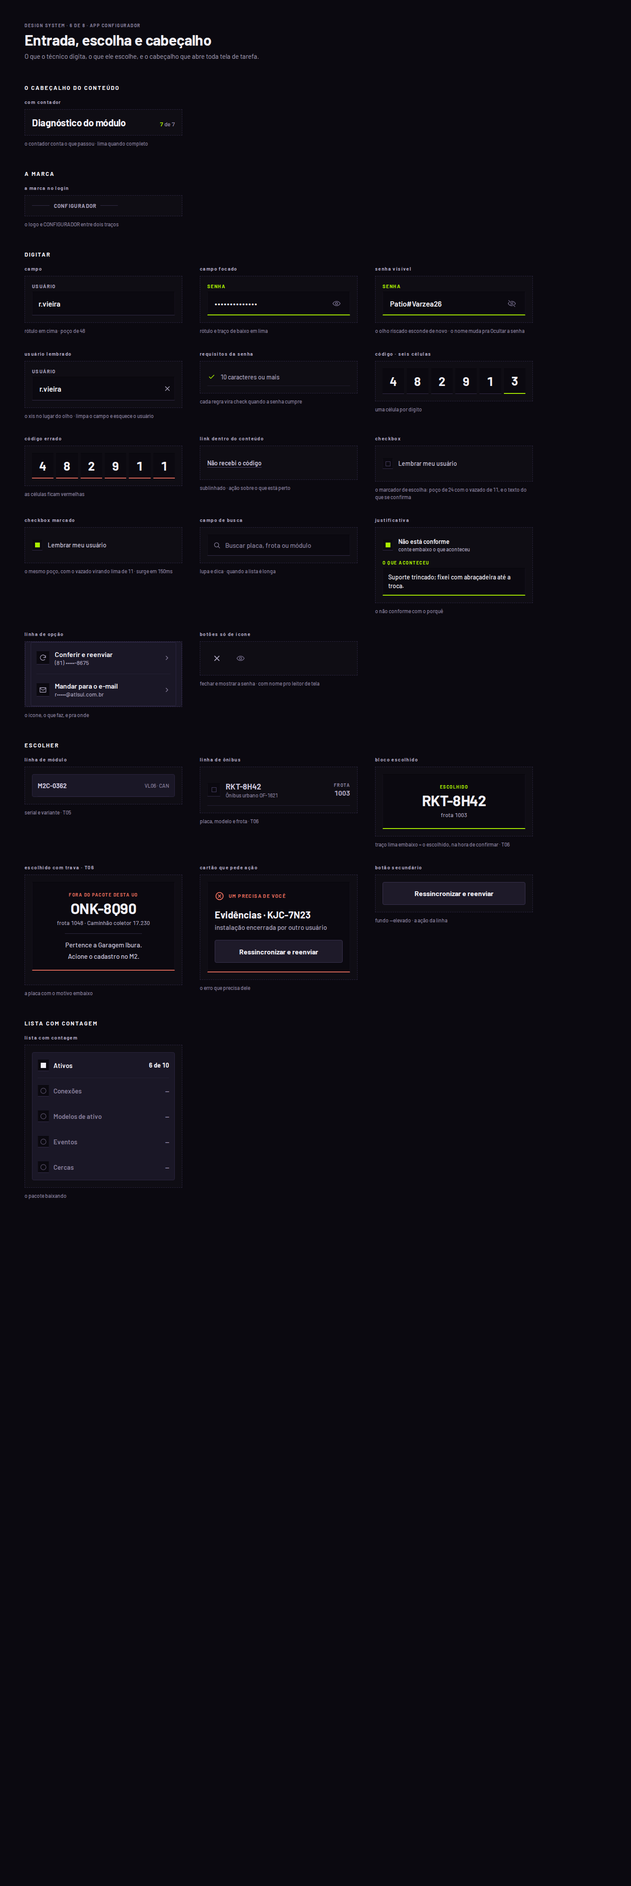
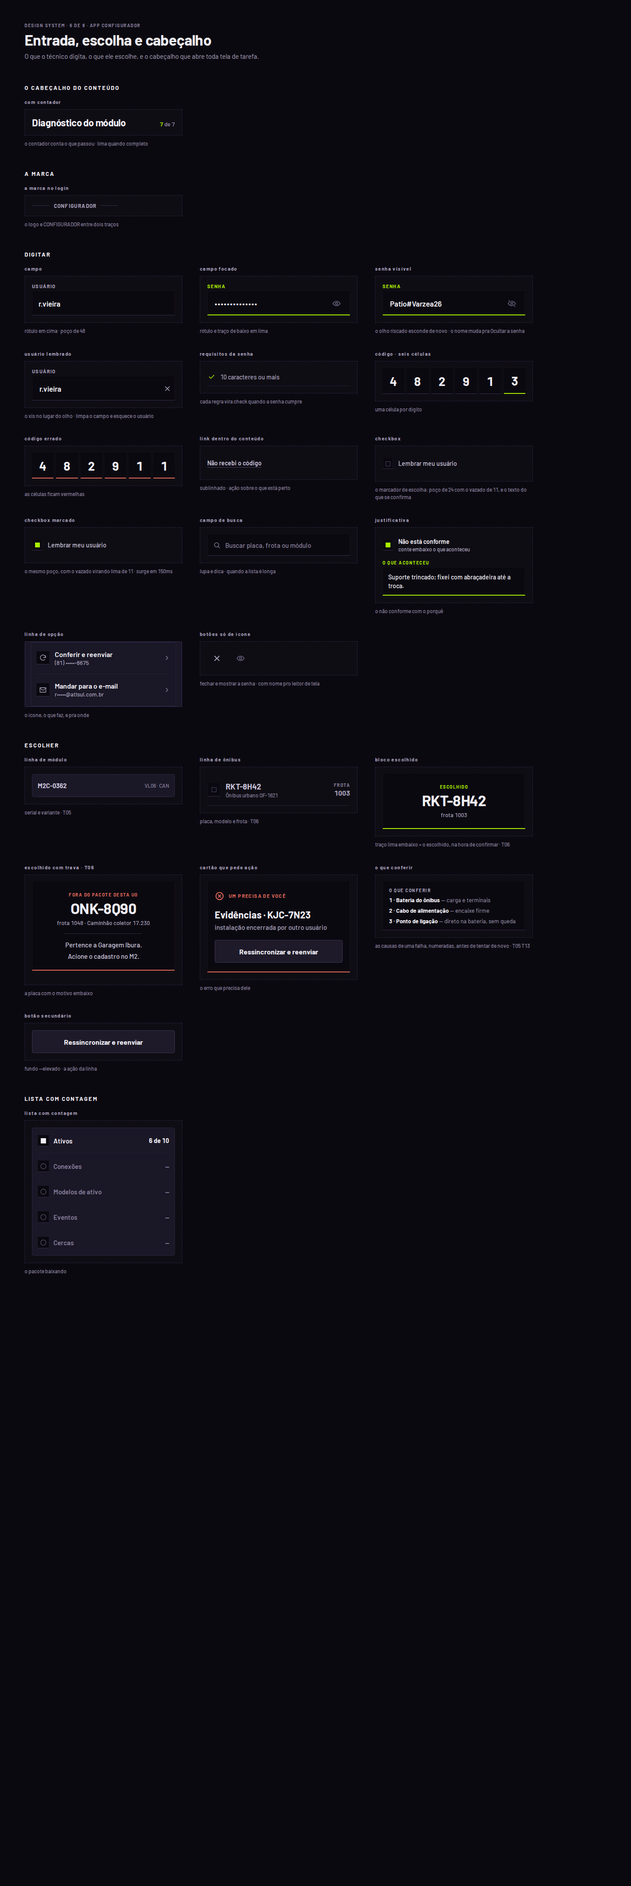
complemento do pacote 11: o o que conferir vira peça
- o O que conferir é peça da folha 6 (ds/entrada/OQueConferir), usada pela T05/04 e pela T13/09
- a regra da barrinha mora no segmentado: só onde se percorre
- 105 → 106 peças · gate em para-o-arquiteto/gate-complemento11.md

Changed region(s): [[0.0312, 0.5298, 0.2812, 0.6544], [0.5938, 0.4674, 0.8438, 0.4986]]

diff --git a/03-design-system/referencias/html/folha-6-entrada-escolha-cabecalho.html b/03-design-system/referencias/html/folha-6-entrada-escolha-cabecalho.html
@@ -66,7 +66,7 @@ a { color: inherit; text-decoration: none; }
         <span style="font-size: 15px; font-weight: 500; color: #A9A2BC; line-height: 1.4;">instalação encerrada por outro usuário</span>
       </div>
       <a href="#r" style="text-decoration: none; height: 52px; border-radius: 4px; background: #1E1A29; border: 1px solid #3A3350; display: flex; align-items: center; justify-content: center; font-size: 16px; font-weight: 700; color: #F2F0F7;">Ressincronizar e reenviar</a>
-    </div></div><span style="font-size: 12px; font-weight: 500; color: #867E9A; line-height: 1.45;">o erro que precisa dele</span></div><div style="width: 360px; display: flex; flex-direction: column; gap: 10px;"><span style="font-size: 11px; font-weight: 700; letter-spacing: 1.4px; color: #A9A2BC;">botão secundário</span><div style="width: 360px; box-sizing: border-box; padding: 16px; background: #0F0D14; border: 1px dashed #2B2540; display: flex; flex-direction: column; overflow: hidden;"><a href="#r" style="text-decoration: none; height: 52px; border-radius: 4px; background: #1E1A29; border: 1px solid #3A3350; display: flex; align-items: center; justify-content: center; font-size: 16px; font-weight: 700; color: #F2F0F7;">Ressincronizar e reenviar</a></div><span style="font-size: 12px; font-weight: 500; color: #867E9A; line-height: 1.45;">fundo --elevado · a ação da linha</span></div></div></div><div style="display: flex; flex-direction: column; gap: 18px;"><span style="font-size: 13px; font-weight: 700; letter-spacing: 2px; color: #F2F0F7;">LISTA COM CONTAGEM</span><div style="display: flex; flex-wrap: wrap; gap: 36px 40px; align-items: flex-start;"><div style="width: 360px; display: flex; flex-direction: column; gap: 10px;"><span style="font-size: 11px; font-weight: 700; letter-spacing: 1.4px; color: #A9A2BC;">lista com contagem</span><div style="width: 360px; box-sizing: border-box; padding: 16px; background: #0F0D14; border: 1px dashed #2B2540; display: flex; flex-direction: column; overflow: hidden;"><div style="background: #1A1726; border: 1px solid #2B2540; border-radius: 4px; padding: 0 12px; display: flex; flex-direction: column; flex-shrink: 0;">
+    </div></div><span style="font-size: 12px; font-weight: 500; color: #867E9A; line-height: 1.45;">o erro que precisa dele</span></div><div style="width: 360px; display: flex; flex-direction: column; gap: 10px;"><span style="font-size: 11px; font-weight: 700; letter-spacing: 1.4px; color: #A9A2BC;">o que conferir</span><div style="width: 360px; box-sizing: border-box; padding: 16px; background: #0F0D14; border: 1px dashed #2B2540; display: flex; flex-direction: column; overflow: hidden;"><div style="flex-shrink: 0; background: #0B0910; border-top: 1px solid #06050A; border-left: 1px solid #14111C; border-right: 1px solid #14111C; border-bottom: 1px solid #332C49; padding: 12px 14px; display: flex; flex-direction: column; gap: 8px;"><span style="font-size: 10px; font-weight: 700; letter-spacing: 1.5px; color: #A9A2BC;">O QUE CONFERIR</span><span style="font-size: 13px; color: #A9A2BC;"><span style="font-weight: 700; color: #F2F0F7;">1 · Bateria do ônibus</span> — carga e terminais</span><span style="font-size: 13px; color: #A9A2BC;"><span style="font-weight: 700; color: #F2F0F7;">2 · Cabo de alimentação</span> — encaixe firme</span><span style="font-size: 13px; color: #A9A2BC;"><span style="font-weight: 700; color: #F2F0F7;">3 · Ponto de ligação</span> — direto na bateria, sem queda</span></div></div><span style="font-size: 12px; font-weight: 500; color: #867E9A; line-height: 1.45;">as causas de uma falha, numeradas, antes de tentar de novo · T05 T13</span></div><div style="width: 360px; display: flex; flex-direction: column; gap: 10px;"><span style="font-size: 11px; font-weight: 700; letter-spacing: 1.4px; color: #A9A2BC;">botão secundário</span><div style="width: 360px; box-sizing: border-box; padding: 16px; background: #0F0D14; border: 1px dashed #2B2540; display: flex; flex-direction: column; overflow: hidden;"><a href="#r" style="text-decoration: none; height: 52px; border-radius: 4px; background: #1E1A29; border: 1px solid #3A3350; display: flex; align-items: center; justify-content: center; font-size: 16px; font-weight: 700; color: #F2F0F7;">Ressincronizar e reenviar</a></div><span style="font-size: 12px; font-weight: 500; color: #867E9A; line-height: 1.45;">fundo --elevado · a ação da linha</span></div></div></div><div style="display: flex; flex-direction: column; gap: 18px;"><span style="font-size: 13px; font-weight: 700; letter-spacing: 2px; color: #F2F0F7;">LISTA COM CONTAGEM</span><div style="display: flex; flex-wrap: wrap; gap: 36px 40px; align-items: flex-start;"><div style="width: 360px; display: flex; flex-direction: column; gap: 10px;"><span style="font-size: 11px; font-weight: 700; letter-spacing: 1.4px; color: #A9A2BC;">lista com contagem</span><div style="width: 360px; box-sizing: border-box; padding: 16px; background: #0F0D14; border: 1px dashed #2B2540; display: flex; flex-direction: column; overflow: hidden;"><div style="background: #1A1726; border: 1px solid #2B2540; border-radius: 4px; padding: 0 12px; display: flex; flex-direction: column; flex-shrink: 0;">
       <div style="display: flex; align-items: center; gap: 10px; height: 58px; border-bottom: 1px solid #241F33;">
         <span style="width: 26px; height: 26px; background: #0B0910; border-top: 1px solid #06050A; border-bottom: 1px solid #332C49; border-left: 1px solid #14111C; border-right: 1px solid #14111C; display: flex; align-items: center; justify-content: center; flex-shrink: 0;"><span style="width: 12px; height: 12px; background: #F2F0F7; display: block;"></span></span>
         <span style="flex-grow: 1; font-size: 15px; font-weight: 600; color: #F2F0F7;">Ativos</span>

diff --git a/06-prototipo/app/src/telas/T13/index.jsx b/06-prototipo/app/src/telas/T13/index.jsx
@@ -50,7 +50,7 @@
 import { Fragment, useEffect, useRef, useState } from 'react'
 import {
   BarraDoSistema, Faixa, CabecalhoConteudo, BarraDoChecklist, SecoesDoChecklist, SecaoDoChecklist, ItemDoChecklist, VereditoDoChecklist,
-  Segmentado, Justificativa, Rodape, Veu, Dialogo, Frase, VisorCamera, FotoProva,
+  Segmentado, Justificativa, OQueConferir, Rodape, Veu, Dialogo, Frase, VisorCamera, FotoProva,
   useTrocaDeQuadro, useReorganiza, usePresenca,
 } from '../../ds/index.js'
 import { useEstado } from '../../estado/estado.jsx'
@@ -65,7 +65,6 @@ import {
   instrumentoDoItem, filaDoFinalizar, nomeDaSecao, rotuloDoNivel, itemDe, ativoDe, registroDoQuadro, cicloConcluido,
 } from './checklist.js'
 import { InstrumentoDoItem } from './pecas.jsx'
-import { CausasDaFalha } from '../T05/pecas.jsx'
 import { T } from './textos.js'
 import './t13.css'
 
@@ -306,7 +305,7 @@ export default function T13({ momento, estado: est }) {
     )
   } else if (nivel) {
     // o nível do item automático reprovado (09, o pacote 11): a tela que ajuda a consertar — a
-    // leitura com a régua, e o que conferir, o bloco da conexão que falha na T05/04, sem o traço
+    // leitura com a régua, e o que conferir (a peça da folha 6, a mesma da T05/04), sem o traço
     // vermelho (a falha já está na régua) · sem a barrinha: no detalhe não tem o que percorrer
     const c = ck.porSecao[nivel.item.secao].find((x) => x.id === q.item)
     const instrumento = c.leitura ? instrumentoDoItem(c) : null
@@ -315,7 +314,7 @@ export default function T13({ momento, estado: est }) {
         <Segmentado rotulo={rotuloDoNivel(nivel.secao)} />
         <h1 className="t13-titulo-item">{nivel.item.pergunta ?? nivel.item.rotulo}</h1>
         {instrumento && <InstrumentoDoItem rotulo={T.lidoNoModulo} {...instrumento} />}
-        {CONFERIR_DO_REPROVADO[q.item] && <CausasDaFalha rotulo={T.oQueConferir} causas={CONFERIR_DO_REPROVADO[q.item]} falha={false} />}
+        {CONFERIR_DO_REPROVADO[q.item] && <OQueConferir rotulo={T.oQueConferir} causas={CONFERIR_DO_REPROVADO[q.item]} />}
       </>
     )
     rodape = <Rodape primario={T.refazerDiagnostico} aoPrimario={() => ir('T07')} link={T.voltarChecklist} aoLink={voltarAoChecklist} />

diff --git a/06-prototipo/app/src/vitrine/especimes/f6-entrada.jsx b/06-prototipo/app/src/vitrine/especimes/f6-entrada.jsx
@@ -8,7 +8,7 @@ import { SoIcone } from '../../ds/index.js'
 import { Lista } from '../../ds/linhas/Lista.jsx'
 import {
   CabecalhoConteudo, Marca, Campo, Requisito, Codigo, LinkConteudo, Busca, Justificativa,
-  LinhaModulo, LinhaOnibus, BlocoEscolhido, CartaoAcao, BotaoSecundario, LinhaContagem,
+  LinhaModulo, LinhaOnibus, BlocoEscolhido, CartaoAcao, OQueConferir, BotaoSecundario, LinhaContagem,
 } from '../../ds/entrada/index.js'
 
 // "botões só de ícone": os dois lado a lado, cada um com a margem que ele tem
@@ -87,6 +87,15 @@ export const especimes = [
     render: () => (
       <CartaoAcao rotulo="UM PRECISA DE VOCÊ" titulo="Evidências · KJC-7N23" descricao="instalação encerrada por outro usuário"
         acao="Ressincronizar e reenviar" />
+    ) },
+  // o complemento do pacote 11: as causas da T13/09, sem o traço vermelho (a T05/04 leva o traço, `falha`)
+  { id: 'f6-o-que-conferir', folha: 6, rotulo: 'o que conferir', legenda: 'as causas de uma falha, numeradas, antes de tentar de novo',
+    render: () => (
+      <OQueConferir rotulo="O QUE CONFERIR" causas={[
+        { titulo: '1 · Bateria do ônibus', texto: '— carga e terminais' },
+        { titulo: '2 · Cabo de alimentação', texto: '— encaixe firme' },
+        { titulo: '3 · Ponto de ligação', texto: '— direto na bateria, sem queda' },
+      ]} />
     ) },
   { id: 'f6-secundario', folha: 6, rotulo: 'botão secundário', legenda: 'fundo --elevado · a ação da linha',
     render: () => <BotaoSecundario>Ressincronizar e reenviar</BotaoSecundario> },

diff --git a/06-prototipo/app/src/ds/entrada/OQueConferir.jsx b/06-prototipo/app/src/ds/entrada/OQueConferir.jsx
@@ -1,0 +1,19 @@
+// O que conferir (folha 6, o complemento do pacote 11): as causas de uma falha,
+// numeradas, antes de tentar de novo — a caixa de poço, o rótulo e uma linha por
+// causa, o nome em negrito e o que conferir depois. Nasceu na T05/04 (o pacote 7)
+// e serve a toda falha que diz o que olhar: a T13/09 também (o pacote 11).
+// `falha`: o traço vermelho embaixo, quando a falha mora nesta caixa (a conexão
+// que não respondeu, T05/04); sem ele, a caixa de poço comum, quando a falha já
+// está desenhada em cima (a régua do item reprovado, T13/09).
+// `causas`: [{ titulo: '1 · Bateria do ônibus', texto: '— carga e terminais' }]
+import '../cartoes/caixas.css'   // a caixa de poço, a do aviso
+import './OQueConferir.css'
+
+export function OQueConferir({ rotulo, causas, falha = false }) {
+  return (
+    <div className={`ds-o-que-conferir ds-caixa-poco ${falha ? 'ds-caixa-falha' : ''}`}>
+      <span className="ds-o-que-conferir-rotulo">{rotulo}</span>
+      {causas.map((c) => <span key={c.titulo} className="ds-o-que-conferir-causa"><span className="ds-o-que-conferir-titulo">{c.titulo}</span> {c.texto}</span>)}
+    </div>
+  )
+}

diff --git a/06-prototipo/app/src/telas/T05/pecas.jsx b/06-prototipo/app/src/telas/T05/pecas.jsx
@@ -2,20 +2,6 @@
 // desenha e não tem linha no componentes.md. Montadas com o que o design
 // system já tem (a caixa de poço, Lei 4), só com tokens.
 import { Poco, Icone, Glifo } from '../../ds/index.js'
-
-// 04 (o pacote 7): o que conferir quando o módulo não responde — a caixa de poço com o traço
-// vermelho, o rótulo e as três causas, embaixo da lista (o nome e o porquê de cada uma)
-// `falha`: a borda vermelha de baixo, da conexão que falhou (T05/04); sem ela, a
-// caixa de poço comum — o detalhe do item reprovado da T13 (a 09, o pacote 11), que
-// já leva a falha na régua de cima
-export function CausasDaFalha({ rotulo, causas, falha = true }) {
-  return (
-    <div className={`t05-causas ds-caixa-poco ${falha ? 'ds-caixa-falha' : ''}`}>
-      <span className="t05-causas-rotulo">{rotulo}</span>
-      {causas.map((c) => <span key={c.titulo} className="t05-causa"><span className="t05-causa-titulo">{c.titulo}</span> {c.texto}</span>)}
-    </div>
-  )
-}
 import './pecas.css'
 
 // 03 · o bloco do nenhum encontrado: a caixa de poço que cresce e ocupa o

diff --git a/06-prototipo/app/src/telas/T05/index.jsx b/06-prototipo/app/src/telas/T05/index.jsx
@@ -57,8 +57,9 @@
 import { Fragment, useEffect, useRef, useState } from 'react'
 import {
   BarraDoSistema, Rodape, CabecalhoConteudo, Lista, LinhaModulo, Nota, useTrocaDeQuadro,
+  OQueConferir,
 } from '../../ds/index.js'
-import { VazioDaBusca, CausasDaFalha } from './pecas.jsx'
+import { VazioDaBusca } from './pecas.jsx'
 import { quadroDoCelular, textosDoCelular, depoisDoPedido } from './celular.js'
 import { useEstado, estadoVazio } from '../../estado/estado.jsx'
 import { useVoltar } from '../../estado/voltar.js'
@@ -270,7 +271,7 @@ export default function T05({ momento, estado: est }) {
           ))}
         </Lista>
         {perto.length === 1 && <Nota titulo={TX.nenhumOutro} frase={TX.seNaoForEste} />}
-        {trava && <CausasDaFalha rotulo={TX.oQueConferir} causas={TX.conferir} />}
+        {trava && <OQueConferir rotulo={TX.oQueConferir} causas={TX.conferir} falha />}
       </>
     )
     if (q.conectado) rodape = <Rodape primario={TX.conectadoAo(escolhido)} primarioDesabilitado primarioTrocaTexto link={TX.procurarDeNovo} linkDesabilitado />

diff --git a/06-prototipo/app/src/telas/T05/pecas.css b/06-prototipo/app/src/telas/T05/pecas.css
@@ -23,8 +23,3 @@
  * agora com 16 (componentes.md · o poço numa leitura em andamento) */
 .t05-vazio-agora.ds-glifo-agora { width: var(--e-16); height: var(--e-16); }
 
-/* o pacote 7 · T05/04 · o que conferir, embaixo da lista: a caixa de poço com o traço vermelho */
-.t05-causas { flex-shrink: 0; display: flex; flex-direction: column; gap: var(--e-8); padding: var(--e-12) var(--e-14); }
-.t05-causas-rotulo { font-size: var(--t-rotulo-bloco); font-weight: 700; letter-spacing: var(--ls-rotulo-bloco); color: var(--tinta-secundaria); }
-.t05-causa { font-size: var(--t-secundario); color: var(--tinta-secundaria); }
-.t05-causa-titulo { font-weight: 700; color: var(--tinta); }

diff --git a/06-prototipo/app/src/ds/entrada/OQueConferir.css b/06-prototipo/app/src/ds/entrada/OQueConferir.css
@@ -1,0 +1,5 @@
+/* O que conferir (folha 6): a caixa de poço, o rótulo de 10 e as causas de 13, a 8 uma da outra */
+.ds-o-que-conferir { flex-shrink: 0; display: flex; flex-direction: column; gap: var(--e-8); padding: var(--e-12) var(--e-14); }
+.ds-o-que-conferir-rotulo { font-size: var(--t-rotulo-bloco); font-weight: 700; letter-spacing: var(--ls-rotulo-bloco); color: var(--tinta-secundaria); }
+.ds-o-que-conferir-causa { font-size: var(--t-secundario); color: var(--tinta-secundaria); }
+.ds-o-que-conferir-titulo { font-weight: 700; color: var(--tinta); }

diff --git a/06-prototipo/app/src/ds/entrada/index.js b/06-prototipo/app/src/ds/entrada/index.js
@@ -14,5 +14,6 @@ export { LinhaModulo } from './LinhaModulo.jsx'
 export { LinhaOnibus } from './LinhaOnibus.jsx'
 export { BlocoEscolhido } from './BlocoEscolhido.jsx'
 export { CartaoAcao } from './CartaoAcao.jsx'
+export { OQueConferir } from './OQueConferir.jsx'   // as causas de uma falha (folha 6 · o complemento do pacote 11 · T05/04, T13/09)
 export { BotaoSecundario } from './BotaoSecundario.jsx'
 export { LinhaContagem } from './LinhaContagem.jsx'

diff --git a/03-design-system/componentes.md b/03-design-system/componentes.md
@@ -79,7 +79,7 @@ Cada peça abaixo está **desenhada numa folha** de `referencias/` e foi **recor
 | cadeia concluída | trilho lima | T09 |
 | cadeia recusada | o elo que falhou acende | T09 |
 | cadeia antes de gravar | o relógio em cada elo · a limpeza diz o que apaga e o que preserva | T09 |
-| segmentado | um segmento por passo | T01 T10 T13 |
+| segmentado | um segmento por passo · **só onde se percorre** — nas fotos da Montagem sim, no detalhe de um item automático não | T01 T10 T13 |
 | a pré-condição dos pinos | a primeira linha da configuração, embaixo do título | T09 |
 | encerrando | a legenda só no passo que corre | T16 |
 | pede o corte | é com você · o único passo em que ele age | T16 |
@@ -112,6 +112,7 @@ Cada peça abaixo está **desenhada numa folha** de `referencias/` e foi **recor
 | bloco escolhido | traço lima embaixo = o escolhido, na hora de confirmar o vínculo | T06 |
 | escolhido com trava · T06 | a placa com o motivo embaixo | T06 |
 | cartão que pede ação | o erro que precisa dele | T15 |
+| o que conferir | as causas de uma falha, numeradas, antes de tentar de novo · nome da causa em negrito, o que conferir depois | T05 T13 |
 | botão secundário | fundo --elevado · a ação da linha | T15 |
 | lista com contagem | o pacote baixando | T03 T07 T09 T16 |
 
@@ -151,7 +152,7 @@ Cada peça abaixo está **desenhada numa folha** de `referencias/` e foi **recor
 
 Anotação de construção. A tabela de cima é a do design; esta diz, só nas linhas em que o protótipo mediu diferente, o que o código usa — a regra com as variantes nomeadas (G11) e as telas que usam, corrigidas pelo medido no ciclo de cada tela (G10). A diferença vai pro arquiteto.
 
-Cada linha é um espécime de moldura das folhas, e a folha 3 soma quatro linhas pros seus 35 átomos: com as de cima, **119 peças** — as 107 do design (a contagem medida, linha a linha, na tabela de cima), as 10 que só o protótipo tem e as duas seções do checklist que a folha 4 ainda desenha, e que a tabela dela não tem (a entrega do checklist). Três das 107 entraram com o pacote 1, e o protótipo já as constrói, cada uma com o espécime da folha na bancada: a linha que só informa, os dados do modelo e a cadeia antes de gravar. Com o pacote 2 (as folhas 4 e 7 novas, decisões 52 e 53), sai a *foto · a tirar* da folha 7 — a foto do painel deixa a calibração —, e nenhuma peça entra: o Painel da Seção B é um *item de tocar*, como as outras fotos, e o Extended ID e o *revisar em seguida* da conferência são variantes da linha de conferência e do com contagem, a medir no ciclo que constrói o pacote. O mapa de cada linha pro componente que a constrói está em `06-prototipo/app/src/ds/MAPA.md`.
+Cada linha é um espécime de moldura das folhas, e a folha 3 soma quatro linhas pros seus 35 átomos: com as de cima, **119 peças** — as 107 do design (a contagem medida, linha a linha, na tabela de cima), as 10 que só o protótipo tem e as duas seções do checklist que a folha 4 ainda desenha, e que a tabela dela não tem (a entrega do checklist). Três das 107 entraram com o pacote 1, e o protótipo já as constrói, cada uma com o espécime da folha na bancada: a linha que só informa, os dados do modelo e a cadeia antes de gravar. Com o pacote 2 (as folhas 4 e 7 novas, decisões 52 e 53), sai a *foto · a tirar* da folha 7 — a foto do painel deixa a calibração —, e nenhuma peça entra: o Painel da Seção B é um *item de tocar*, como as outras fotos, e o Extended ID e o *revisar em seguida* da conferência são variantes da linha de conferência e do com contagem, a medir no ciclo que constrói o pacote. Com o complemento do pacote 11, entra o *o que conferir* (folha 6, logo depois do cartão que pede ação): o censo do design passa de 105 a 106 peças. O mapa de cada linha pro componente que a constrói está em `06-prototipo/app/src/ds/MAPA.md`.
 
 - **peça nova no protótipo:** a folha desenha, e o design ainda não tem linha
 - **em outra folha:** o espécime está desenhado nesta folha, e não na que o design diz
@@ -216,7 +217,7 @@ Cada linha é um espécime de moldura das folhas, e a folha 3 soma quatro linhas
 | aviso | o mesmo desenho, cinza, sem traço · variante: sem poço, só o rótulo e a frase, na folha de trocar de unidade (T04) | T03 T04 T05 T09 T12 T16 |
 | processo parado | o veredito de uma cadeia ou de um download | T09 |
 | com contagem | quantos não bateram, à direita · o glifo de 16 no poço de 32 (T11/00 e 01) · variante: veredito, o que confere, sem poço, 12 · 14 em volta, o rótulo de topo em lima e o traço lima de 2 embaixo (T11/02) · o cabeçalho espera a última linha da conferência e entra esmaecendo no lugar (a decisão do diretor de 25/09) · a medir no ciclo do pacote 2: o cabeçalho cinza do *REVISAR EM SEGUIDA* (T11/05, decisão 53) | T11 |
-| nota tracejada | o que falta explicar, sem ser aviso · variante: a frase em 13, mais aberta, a que diz o bloqueio do pacote (T03) · variante: a frase de 13 em 400, na entrelinha da caixa apagada, a do item que não se marca à mão (T13) · variante: pulado, o que não rodou (T16/04), uma peça só desde a otimizacao300000000 — a frase de 13 em 500 e --tinta-secundaria, sem o rótulo, e as duas linhas equilibradas pelo balance na caixa | T03 T05 T13 T16 |
+| nota tracejada | o que falta explicar, sem ser aviso · variante: a frase em 13, mais aberta, a que diz o bloqueio do pacote (T03) · variante: a frase de 13 em 400, na entrelinha da caixa apagada, a do item que não se marca à mão (T13 · sem uso desde o pacote 11, que trocou o recado pelo *O que conferir*) · variante: pulado, o que não rodou (T16/04), uma peça só desde a otimizacao300000000 — a frase de 13 em 500 e --tinta-secundaria, sem o rótulo, e as duas linhas equilibradas pelo balance na caixa | T03 T05 T13 T16 |
 | nota com rótulo | o fato declarado, com o nome dele em cima · variante: achado, o que a leitura achou e não classifica, com a borda do poço, 10 · 12 em volta, e o rótulo e a frase em --tinta-secundaria (T11) · o uso da T06 era o *sem chassi na CAN*, que saiu · variante: aguarda, a CAN que espera o bloco do ativo — 10 · 12 em volta, o rótulo e a frase em --tinta-apagada, a frase de 12 em 400 — e é ela que a folha 4 do pacote 1 desenha (T07/00, 02 a 07) · o fato declarado fica no TRAVADO NA SESSÃO do menu (T04) · o design acrescenta a T10 no pacote 2, a medir no ciclo que o constrói | T04 T07 T11 |
 | os dados do modelo | rótulo em cima, valor grande · o fabricante e o modelo · no bloco embaixo do escolhido, no lugar do chassi, com a frase do vínculo embaixo · a folha 4 rotula *no vínculo* | T06 (01, 10, 11) |
 | linha do histórico | placa, módulo e hora · o veredito à direita · variante: o tom do veredito pela natureza do estado, o que espera em --tinta e a falha em --vermelho (T12) · variante: a linha de baixo em 12, quando diz há quantos dias (T12) · variante: o veredito longo quebra em duas linhas, à direita, e a placa e a linha de baixo não quebram (T12) | T12 |
@@ -232,7 +233,7 @@ Cada linha é um espécime de moldura das folhas, e a folha 3 soma quatro linhas
 | cadeia recusada | o elo que falhou acende · variante: correndo, a cadeia gravando, o quadrado de agora e os que esperam com o conteúdo apagado, elo de 86 (T09 · o conteúdo no lugar da versão, decisão 49: a referência do pacote 1 mantém os 86) · variante: pausada, a cadeia parada com o contador e o aviso, o elo pausado aceso e os pendentes em traço, elo de 68 (T09) | T09 |
 | cadeia antes de gravar | o relógio em cada elo · a limpeza diz o que apaga e o que preserva · a limpeza primeiro, e as duas pré-condições em cima, os pinos e o espaço · na T09/05 a 07, o último elo sem o fecho de baixo, a cadeia que fecha o miolo; a folha desenha o último com os 70 dos outros | T09 (05, 06, 07) |
 | a pré-condição dos pinos | a primeira linha da configuração, embaixo do título · a variante da linha de condição da conferência saiu com a T11/04 (decisão 53) | T09 |
-| segmentado | um segmento por passo · variante: folga 8, a da recuperação do acesso (T01) · variante: o passo atual já feito, alto como o atual e lima apagado (T10) · variante: o atual com falha, o passo atual reprovado, alto como o atual e em vermelho (T13) | T01 T10 T13 |
+| segmentado | um segmento por passo · **só onde se percorre** — nas fotos da Montagem sim, no detalhe de um item automático não · variante: folga 8, a da recuperação do acesso (T01) · variante: o passo atual já feito, alto como o atual e lima apagado (T10) · variante: o atual com falha, o passo atual reprovado, alto como o atual e em vermelho (T13 · sem uso desde o pacote 11: o detalhe do item automático perdeu a barrinha) · variante: só o cabeçalho, com o rótulo, sem o contador e sem os segmentos (T13/09, o pacote 11) | T01 T10 T13 |
 | encerrando | a legenda só no passo que corre · variante: pausa, o bloco em que a sessão interrompida parou, a pausa no poço, o nome e o 'parou aqui' em --tinta, e o trilho de baixo na divisória (T16) | T16 |
 | pede o corte | é com você · o único passo em que ele age | T16 |
 | sem homologar | só os quatro que deixam o módulo seguro · os pulados com traço, o desenho da folha 5 (o espécime f5-sem-homologar e a T16/03) · o *pulado* é o passo que o encerrar sem homologar pula, e não o *não se aplica*, que é só da assertiva do autoteste (T16/02 e 05), nem o traço *—* do passo que ainda não chegou (T16/00 e 01) — otimizacao300000000 · pro leitor de tela, o traço do pulado fica mudo (`aria-hidden`, como na T16/03, que não dá nome a ele), e a situação ao lado diz *pulado* | T16 |
@@ -258,6 +259,7 @@ Cada linha é um espécime de moldura das folhas, e a folha 3 soma quatro linhas
 | | **o pacote 7 e o 8** · a T05 deixou de usar o bloco escolhido e o escolhido com trava (a lista marcada); o pacote 8 devolveu o bloco escolhido à folha 6 como peça da T06, a confirmação do vínculo (o recorte do RKT-8H42) · 105 peças | T06 |
 | escolhido com trava · T06 | a placa com o motivo embaixo · variante: neutro, a trava que tem saída, o rótulo cinza e o traço neutro (T06) | T06 |
 | cartão que pede ação | o erro que precisa dele · variante: compacto, com mais de um erro, o título de 17, a causa de 13 e o botão compacto num bloco com a divisória embaixo, e depois dele o que a tela põe (T15) | T15 |
+| o que conferir | as causas de uma falha, numeradas, antes de tentar de novo · a caixa de poço, o rótulo de 10 e as causas de 13, o nome da causa em 700 e --tinta, o que conferir em --tinta-secundaria · variante: com falha, o traço vermelho de 2 embaixo (T05/04, a conexão que falhou); sem ele, a caixa de poço comum (T13/09, o item reprovado, que já leva a falha na régua) · `src/ds/entrada/OQueConferir.jsx` (o complemento do pacote 11) | T05 T13 |
 | botão secundário | fundo --elevado · a ação da linha · variante: compacto, 46 de desenho e 15 de letra, com o toque de 48 por fora (T15) | T15 |
 | lista com contagem | o pacote baixando · os cinco grupos do pacote 1, com a divisória entre as linhas e nenhuma depois da última, a regra da peça — a folha 6 desenha só a dos Ativos (o desvio A da T03, na tela.md dela) · variante: o nome pro leitor segue o dado, na baixa que parou a linha diz que parou (T03) | T03 |
 

diff --git a/02-telas/T05-conectar-modulo/tela.md b/02-telas/T05-conectar-modulo/tela.md
@@ -75,7 +75,7 @@ Anotação de construção, medida no código e nas referências. A lista de cim
 - nota tracejada
 - com contador neutro
 - linha de módulo · a escolha numa lista, com a falha à direita (o pacote 7)
-- o que conferir da 04, peça da tela (`pecas.jsx` · `CausasDaFalha`, o pacote 7) · desde o pacote 11, a T13/09 usa a mesma, sem o traço vermelho (`falha={false}`)
+- o que conferir da 04 (o pacote 7) · desde o complemento do pacote 11, peça do design system, na folha 6 (`ds/entrada/OQueConferir.jsx`), com o traço vermelho (`falha`) · a T13/09 usa a mesma, sem ele
 
 Corrigida no C6 pelo medido (G10, T05-A14). A T05 se constrói em dois ciclos: a lista conta o que o código usa hoje (o caminho feliz, C6) e o que as 16 referências desenham (os estados, C7). Saíram as 16 peças que nenhuma das 16 desenha (faixa · sem ação, processo parado, linha do histórico, a lista de unidades, as duas da cadeia, as três do encerramento, com contador de falha, a marca no login, campo, campo focado, linha de opção, linha de ônibus e lista com contagem): a faixa da T05 sempre tem o ENCERRAR, e as falhas da pré-checagem contam em cinza o que passou. Entraram as de toque da folha 1 (o primário nos três estados, o link e a linha tocável), a faixa · sessão aberta da pré-checagem aprovada (05 e 13) e os glifos, os poços e os marcadores da folha 3. O escolhido com trava (04), a parou aqui (14), a falha (14) e o aviso (15) ganharam código no C7. O que só a T05 desenha virou variante nomeada (G11): a linha de módulo com o fim da lista e como escolha, a checagem no estado agora, a última de 43 da pré-checagem aprovada, o relógio apagado do ainda não, o processo correndo com o pé de 32, o contador do veredito e a faixa sem ativo (C6); a checagem com a nota embaixo (13), a parou aqui neutra do repouso (15), a última de 45 da pré-checagem que reprovou ou parou, o contador só com a palavra (03) e a leitura com o número em destaque (13) (C7). O rótulo de topo com o serial e a placa, o rótulo dos outros por perto e o bloco do nenhum encontrado (03) não têm linha no `componentes.md`: são peças desta tela, em `06-prototipo/app/src/telas/T05/` (o bloco do nenhum encontrado em `pecas.jsx`, que no 16 e no 17 leva o poço de 44 com o Bluetooth cortado, o ícone `bluetooth-desligado` — a entrega do mundo real). Com o pacote 1 (decisão 44): a pré-checagem saiu, e com ela as peças que só os onze estados dela desenhavam — a barra do sistema com a faixa, a faixa · sessão aberta, uma ação, o processo correndo, aprovada, reprovada com causa, não se aplica, parou aqui, ainda não, pré-checagem, pré-checagem com sessão, a falha, o aviso e a tira de leituras. Medido nas sete que ficam (00 a 04, 16 e 17): nenhuma tem a faixa, e todas têm duas ações, o primário e o link. O *com contador neutro* é o que a lista de cima chama de *com contador*. Com a errata, a *linha de módulo* da 01 perdeu a folga do fim: as cinco linhas têm 72 e a divisória embaixo, a última também, como a referência nova desenha (o `fim` de 76 do C6 ficou só na vitrine); na 00 e na 04, a última dos outros por perto segue com a folga de 56. A lista de cima traz as peças que o C6 mediu fora de toda referência da T05 (linha do histórico, a lista de garagens, linha de opção, linha de ônibus e lista com contagem), e também a linha da fila e a linha da re-checagem, que esta lista não usa: vale esta lista, e a diferença vai pro arquiteto.
 

diff --git a/06-prototipo/para-o-arquiteto/gate-complemento11.md b/06-prototipo/para-o-arquiteto/gate-complemento11.md
@@ -1,0 +1,41 @@
+# Gate do complemento do pacote 11
+
+Medido em 04/10, com o complemento aplicado por cima do pacote 11.
+
+## 1 · O censo
+
+| | pedido | medido |
+|---|---|---|
+| referências | 160 | 160 ✓ |
+| peças | 106 | 106 ✓ (o *o que conferir* entra na folha 6, logo depois do cartão que pede ação) |
+| leis | 24 | 24 ✓ |
+| decisões | 54 | 54 ✓ |
+
+A última linha do gate: `GATE APROVADO — todas as âncoras recomputadas conferem`.
+
+**O `componentes.md` do complemento vinha de uma cópia antiga**, sem a nossa seção *No protótipo · o que o código mediu*. Entraram só as duas linhas novas da tabela do design: a peça nova e a regra do segmentado. Na nossa tabela medida, as duas ganharam o mesmo texto, com a medida e o componente. A folha 6 entrou inteira.
+
+**Também atualizados, pela peça a mais:** o `CLAUDE.md`, o `README.md` do design system e o do `08-para-o-dev`, que dizem 106 peças.
+
+## 2 · A conferência
+
+As folhas lado a lado estão em `complemento11/`:
+
+| o que | contra |
+|---|---|
+| folha 6 · o *o que conferir* (`folha-6-o-que-conferir.png`) | 0,02%, mesmo tamanho (360 × 144) |
+| T05 `04` · a conexão que falhou | 0% contra o HTML, como antes |
+| T13 `09` · o item reprovado | 0% contra o HTML, como antes |
+
+- **Os espécimes:** todos rodam, sem erro.
+- **Os roteiros que passam pelas duas telas:** aprovados (`mov-t05`, `busca`, `mov-t13` e `checklist`).
+- **checar, build e o gate:** aprovados.
+
+**O componente estava duplicado? Não.** Desde o pacote 11, a T13 já usava o bloco da T05 (`CausasDaFalha`, em `telas/T05/pecas.jsx`). Agora ele mudou de lugar: é a peça `OQueConferir`, em `ds/entrada/`, com o próprio CSS, e as duas telas usam a mesma.
+- A opção `falha` põe o traço vermelho embaixo, o da T05/04.
+- Sem ela, fica a caixa de poço comum, a da T13/09 e a que a folha desenha.
+- As classes `t05-causas` saíram da T05.
+
+## 3 · As divergências
+
+Nenhuma.
